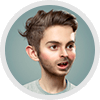
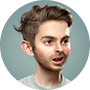
fix: fix some markup and styles, remove unnecessary styles and images

diff --git a/index.html b/index.html
@@ -21,7 +21,7 @@
 					</a>
 					<nav class="header__nav">
 						<ul class="header__items">
-							<li class="header__item header__item--active"><a class="header__link" href="#">Home</a></li>
+							<li class="header__item"><a class="header__link" href="#">Home</a></li>
 							<li class="header__item"><a class="header__link" href="#domain">Domain</a></li>
 							<li class="header__item"><a class="header__link" href="#hosting">Hosting</a></li>
 							<li class="header__item"><a class="header__link" href="#clients">Clients</a></li>
@@ -272,13 +272,13 @@
 			<section class="about container" id="clients">
 				<div class="about__text">
 					<h2 class="about__heading"><span>About</span> Us</h2>
-					<p class="about__description">Lorem ipsum dolor sit amet, consectetur adipiscing elit.<br>Praesent feugiat eget diam sit amet molestie.Curabitur.<br>ut ipsum bibendum tortor lacinia fermentum nec joeıa.<br>Mauris at augue libero. Fusce posuere, sapien nec poır.<br>Uaee augsuada sed mauris in tincidunt...</p>
+					<p class="about__description">Lorem ipsum dolor sit amet, consectetur adipiscing elit. Praesent feugiat eget diam sit amet molestie.Curabitur. ut ipsum bibendum tortor lacinia fermentum nec joeıa. Mauris at augue libero. Fusce posuere, sapien nec poır. Uaee augsuada sed mauris in tincidunt...</p>
 				</div>
 				<div class="dashed-border-vertical"></div>
 				<div class="about__team">
 					<ul class="about__list">
 						<li class="about__item">
-							<img class="about__photo" src="./img/about-1.png" alt="Jonny Doe photo" width="100" height="100">
+							<img class="about__photo" src="./img/about-1.png" alt="Jonny Doe photo" width="90" height="90">
 							<h3 class="about__name">Jonny Doe</h3>
 							<span class="about__occupation">Designer</span>
 							<ul class="about__social">
@@ -294,7 +294,7 @@
 							</ul>
 						</li>
 						<li class="about__item">
-							<img class="about__photo" src="./img/about-2.png" alt="Johny Doe photo" width="100" height="100">
+							<img class="about__photo" src="./img/about-2.png" alt="Johny Doe photo" width="90" height="90">
 							<h3 class="about__name">John Doe</h3>
 							<span class="about__occupation">Designer</span>
 							<ul class="about__social">
@@ -310,7 +310,7 @@
 							</ul>
 						</li>
 						<li class="about__item">
-							<img class="about__photo" src="./img/about-3.png" alt="Johny Doe photo" width="100" height="100">
+							<img class="about__photo" src="./img/about-3.png" alt="Johny Doe photo" width="90" height="90">
 							<h3 class="about__name">Johnathan Doe</h3>
 							<span class="about__occupation">Designer</span>
 							<ul class="about__social">

diff --git a/css/blocks/header.css b/css/blocks/header.css
@@ -1,11 +1,11 @@
 .header {
 	margin-bottom: 86px;
 	width: 100%;
-	background: var(--black);
+	background: black;
 	background-image: url(../../img/bg.jpg);
 	background-position: top center;
 	background-repeat: repeat-x;
-	color: var(--white);
+	color: white;
 }
 
 .header__top {
@@ -53,24 +53,25 @@
 .header__item {
 	margin-left: 69px;
 	padding: 37px 0;
+	border-bottom: 1px solid transparent;
 }
 
 .header__item:first-child {
 	margin-left: 0;
 }
 
-.header__item--active {
-	border-bottom: 1px solid var(--white);
-}
-
 .header__item:hover, 
 .header__item:focus {
-	border-bottom: 1px solid var(--white);
+	border-bottom: 1px solid white;
 	cursor: pointer;
 }
-
+/*
+.header__item--active {
+	border-bottom: 1px solid white;
+}
+*/
 .header__link {
-	color: var(--white);
+	color: white;
 }
 
 
@@ -115,10 +116,9 @@
 	display: inline-block;
 	width: 48.7%;
 	padding: 50px 100px;
-	text-align: center;
 	text-transform: uppercase;
 	font-size: 22px;
-	color: var(--white);
+	color: white;
 }
 
 .header__button span {
@@ -127,8 +127,8 @@
 }
 
 .header__button--login {
-	margin-right: 2%;
-	padding-right: 34px;
+	padding-right: 246px;
+	text-align: right;
 	background: rgba(32, 55, 71, 0.91);
 }
 
@@ -153,5 +153,6 @@
 }
 
 .header__button--register {
-	padding-left: 62px;
+	padding-left: 268px;
+	text-align: left;
 }

diff --git a/css/blocks/domain.css b/css/blocks/domain.css
@@ -31,7 +31,6 @@
 	-webkit-box-pack: justify;
 	    -ms-flex-pack: justify;
 	        justify-content: space-between;
-	/*align-content: center;*/
 	-webkit-box-align: center;
 	    -ms-flex-align: center;
 	        align-items: center;
@@ -130,11 +129,6 @@
 	color: #cbcbcb;
 	background-color: transparent;
 	cursor: pointer;
-
-/*
-	border: none;
-	border-radius: 0;*/
-	/*border-left: 1px solid #d9d9d9;*/
 }
 
 .domain__select:focus,
@@ -159,18 +153,18 @@
 	line-height: 110%;
 	text-transform: capitalize;
 	color: #cbcbcb;
-	border-collapse: collapse;
+	/*border-collapse: collapse;*/
 }
 
 
 .domain__table::before {
 	position: absolute;
 	content: "";
-	width: 27px;
-	height: 189px;
+	width:  3.37%;
+	height: 10%;
 	display: block;
-	top: 2px;
-	left: 1px;
+	top: 45%;
+	left: 0.1%;
 	background-color: white;
 }
 

diff --git a/css/blocks/support.css b/css/blocks/support.css
@@ -1,21 +1,12 @@
 .support {
 	margin-top: 100px;
 	margin-bottom: 95px;
-
-	/*outline: 1px solid red;*/
 }
 
 .support__items {
-	display: -webkit-box;
-	display: -ms-flexbox;
 	display: flex;
-	-webkit-box-orient: horizontal;
-	-webkit-box-direction: normal;
-	    -ms-flex-direction: row;
-	        flex-direction: row;
-	-webkit-box-pack: justify;
-	    -ms-flex-pack: justify;
-	        justify-content: space-between;
+	flex-direction: row;
+	justify-content: space-between;
 	text-align: center;
 }
 
@@ -33,7 +24,7 @@
 .support__icon .fa {
 	font-size: 28px;
 	line-height: 20px;
-	color: var(--white);
+	color: white;
 }
 
 .support__icon.icon1 {

diff --git a/css/blocks/footer.css b/css/blocks/footer.css
@@ -3,7 +3,7 @@
 
 	padding-bottom: 30px;
 	background-color: #2a2a2a;
-	color: var(--white);
+	color: white;
 }
 
 
@@ -60,7 +60,7 @@
 
 .footer__link:hover,
 .footer__link:focus {
-	color: var(--white);
+	color: white;
 }
 
 
@@ -97,7 +97,7 @@
 
 .footer__copyright-link:hover,
 .footer__copyright-link:focus {
-	color: var(--white);
+	color: white;
 }		
 
 
@@ -148,13 +148,13 @@
 
 .footer__menu-link:hover,
 .footer__menu-link:focus {
-	color: var(--white);
+	color: white;
 	margin-left: 7px;
 }
 
 .footer__menu-link:hover::before,
 .footer__menu-link:focus::before {
-	color: var(--white);
+	color: white;
 	left: -20px;
 	bottom: 12px;
 }

diff --git a/css/blocks/hosting.css b/css/blocks/hosting.css
@@ -26,9 +26,14 @@
 	padding-left: 27px;
 	border-top: 5px solid grey;
 	text-align: center;
-	background-color: var(--white);
+	background-color: white;
 	-webkit-box-shadow: 0 3px 10px rgba(0, 0, 0, 0.06);
 	        box-shadow: 0 3px 10px rgba(0, 0, 0, 0.06);
+}
+
+.hosting__item:hover {
+-webkit-box-shadow: 0 5px 15px rgba(0, 0, 0, 0.06);
+	      box-shadow: 0 5px 30px rgba(0, 0, 0, 0.1);
 }
 
 .hosting__item--basic {

diff --git a/css/blocks/blog.css b/css/blocks/blog.css
@@ -1,6 +1,4 @@
 .blog {
-	/*outline: 1px solid red;*/
-	
 	margin: 0;
 	padding: 34px 0 50px;
 
@@ -8,7 +6,7 @@
 	background-image: url("../../img/blog-bg.jpg");
 	background-repeat: repeat;
 	text-align: center;
-	color: var(--white);
+	color: white;
 }
 
 .blog .container {

diff --git a/css/blocks/about.css b/css/blocks/about.css
@@ -69,6 +69,11 @@
 
 .about__photo {
 	margin-bottom: 12px;
+	width: 90px;
+	height: 90px;
+	border-radius: 100%;
+	box-sizing: border-box;
+  border: 5px solid var(--black-15);
 }
 
 .about__name {

diff --git a/css/global/variables.css b/css/global/variables.css
@@ -1,8 +1,5 @@
 :root {
-	--black: #000000;
-	--white: #ffffff;
 	--black-15: rgba(0, 0, 0, 0.15);
 	--black-10: rgba(0, 0, 0, 0.1);
-
 	--white-15: rgba(255, 255, 255, 0.15);
 }

diff --git a/css/global/general.css b/css/global/general.css
@@ -36,8 +36,6 @@ body {
 
 
 .container {
-  /*outline: 1px solid red;*/
-
   width: 1230px;
   margin: 0 auto;
   padding: 0 15px;
